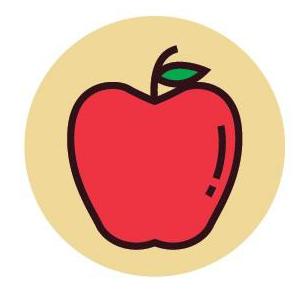
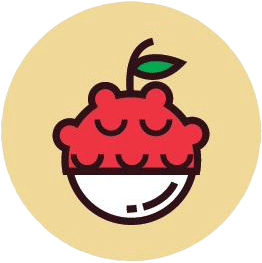
Added new fruit images. Making adjustments to board creation logic

diff --git a/Assets/Scripts/Board.cs b/Assets/Scripts/Board.cs
@@ -5,23 +5,27 @@ using UnityEngine;
 public class Board : MonoBehaviour
 {
     // Start is called before the first frame update
-    public GameObject [,] board;
+    public GameObject[,] board;
+    public int boardSize = 6;
+
     void Start()
     {
-        board = new GameObject [6,6];
+        board = new GameObject[boardSize, boardSize];
 
         GameObject tile = (GameObject)Resources.Load("prefabs/Tile", typeof(GameObject));
 
-        for(int i=0; i < 6; i++){
-            for(int j=0; j < 6; j++){
-                board[i,j] = Instantiate(tile, new Vector3(0,0,0), Quaternion.identity);
+        //Generate Tiles
+        for (int i = 0; i < boardSize; i++)
+        {
+            for (int j = 0; j < boardSize; j++)
+            {
+                Instantiate(
+                    tile, 
+                    new Vector3(0 + i, 0 + j, 0), 
+                    Quaternion.identity
+                );
             }
         }
     }
 
-    // Update is called once per frame
-    void Update()
-    {
-
-    }
 }

diff --git a/Assets/Scripts/Tile.cs b/Assets/Scripts/Tile.cs
@@ -9,7 +9,7 @@ public class Tile : MonoBehaviour
     public int value;
     void Start()
     {
-        this.value = Random.Range(1,6);
+        this.value = Random.Range(1, 6);
         Debug.Log(value);
         this.sprite = Resources.Load<Sprite>($"images/fruit{value}");
         Debug.Log(sprite);
@@ -18,9 +18,10 @@ public class Tile : MonoBehaviour
         Debug.Log(spriteRenderer.bounds.size.x);
         Debug.Log(spriteRenderer.bounds.size.y);
         this.transform.position = new Vector3(
-            this.transform.position.x*spriteRenderer.bounds.size.x,
-            this.transform.position.y*spriteRenderer.bounds.size.y,
-            0);
+            this.transform.position.x * spriteRenderer.bounds.size.x,
+            this.transform.position.y * spriteRenderer.bounds.size.y,
+            0
+        );
 
     }
 
